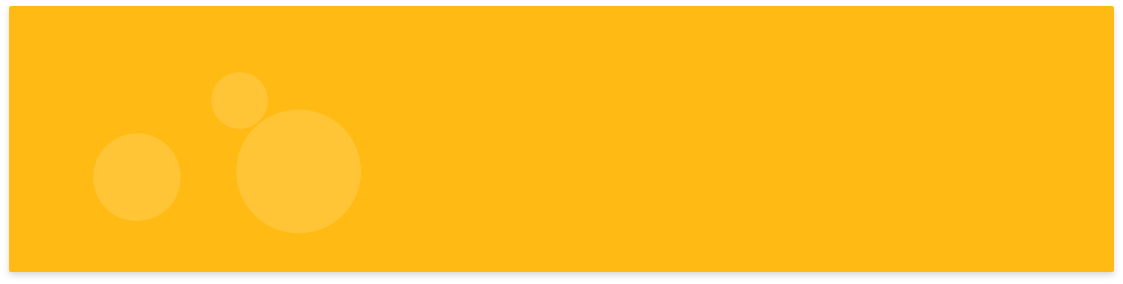
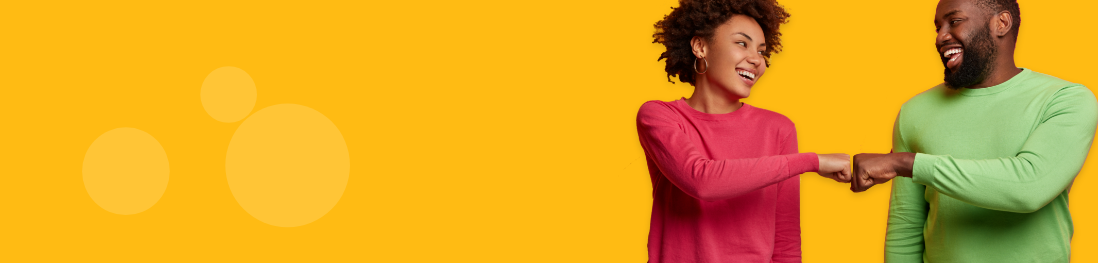
faqs page done

diff --git a/src/views/Faq.vue b/src/views/Faq.vue
@@ -1,13 +1,239 @@
 <template >
-    <div class="faqs">
-        
+  <div class="faqs">
+    <div class="row">
+      <div class="col-md-8">
+        <div class="faq-banner mb-5">
+          <h1 class="fw-9">Frequently asked questions</h1>
+          <div class="border"></div>
+          <p class="fw-7">
+            Sed quis magna nec augue suscipit venenatis. Pellentesque eu felis
+            nisl. Sed diam velit, venenatis sed molestie sit amet, consequat ac
+            diam. Vestibulum ante ipsum primis in faucibus orci luctus et
+            ultrices posuere cubilia curae; Donec lacinia ante eu feugiat
+            semper.
+          </p>
+        </div>
+        <div class="faq-section">
+          <h4 class="mb-4">Genral Enquiries</h4>
+
+          <div
+            class="collapse-container"
+            v-for="(faq, fIndex) in faqs"
+            :key="fIndex"
+          >
+            <div class="collapse-btn" v-b-toggle="'collapse' + fIndex">
+              {{ faq.heading }}
+              <b-icon icon="chevron-down"></b-icon>
+            </div>
+            <b-collapse :id="'collapse' + fIndex" accordion="my-accordion">
+              <p class="p-3 pt-0">
+                {{ faq.ans }}
+              </p>
+            </b-collapse>
+          </div>
+        </div>
+      </div>
+      <div class="col-md-4">
+        <HowCanWeHelp class="mb-4" />
+        <NagiaContact />
+      </div>
     </div>
+  </div>
 </template>
 <script>
+import HowCanWeHelp from "@/components/HowCanWeHelp";
+import NagiaContact from "@/components/NagiaContact";
 export default {
-    
-}
+  components: { HowCanWeHelp, NagiaContact },
+  data() {
+    return {
+      faqs: [
+        {
+          heading: "In conguet condimentum tincidunt?",
+          ans: "Lorem ipsum dolor sit amet, consetetur sadipscing elitr, sed diam nonumy eirmod tempor. Lorem ipsum dolor sit amet, ",
+        },
+        {
+          heading: "Aliquam condimentum leo massa?",
+          ans: "Lorem ipsum dolor sit amet, consetetur sadipscing elitr, sed dia sanctus est Lorem ipsum dolor sit amet. Lorem ipsum dolor sit amet, consetetur sadipscing elitr, sed diam nonumy eirmod tempor invidunt ut labore et dolore magna aliquyam erat, sed diam voluptua. At vero eos et accusam et justo duo dolores et ea rebum. Stet clita kasd gubergren, no sea takimata sanctus est Lorem ipsum dolor sit amet.Lorem ipsum dolor sit amet, consetetur sadipscing elitr, sed diam nonumy eirmod tempor invidunt ut labore et dolore magna.",
+        },
+        {
+          heading: "Quisque porta blandit purus at consectetur?",
+          ans: "Lorem ipsum dolor sit amet, consetetur sadipscing elitr, sed diam nonumy eirmod tempor. Lorem ipsum dolor sit amet, consetetur sadipscing elitr, sed diam nonumy eirmod tempor invidunt ut labore et dolore magna aliquyam erat, sed diam voluptua. At vero eos et accusam et justo duo dolores et ea rebum. Stet clita kasd gubergren, no sea takimata sanctus est Lorem ipsum dolor sit amet.Lorem ipsum dolor sit amet, consetetur sadipscing elitr, sed diam nonumy eirmod tempor invidunt ut labore et dolore magna.",
+        },
+        {
+          heading: "Vestibulum quis eros risus?",
+          ans: "Lorem ipsum dolor sit amet, consetetur takimata sanctus est Lorem ipsum dolor sit amet. Lorem ipsum dolor sit amet, consetetur sadipscing elitr, sed diam nonumy eirmod tempor invidunt ut labore et dolore magna aliquyam erat, sed diam voluptua. At vero eos et accusam et justo duo dolores et ea rebum. Stet clita kasd gubergren, no sea takimata sanctus est Lorem ipsum dolor sit amet.Lorem ipsum dolor sit amet, consetetur sadipscing elitr, sed diam nonumy eirmod tempor invidunt ut labore et dolore magna.",
+        },
+        {
+          heading: "In conguet condimentum tincidunt?",
+          ans: "Lorem ipsum dolor sit amet, consetetur sadipscing elitr, sed diam nonumy eirmod tempor invidunt ut labore et dolore magna aliquyam erat, sed diam voluptua. At vero eos et accusam et justo duo dolores et ea rebum. Stet clita kasd gubergren, no sea takimata sanctus est Lorem ipsum dolor sit amet. Lorem ipsum dolor sit amet, consetetur sadipscing elitr, sed diam nonumy eirmod tempor invidunt ut labore et dolore magna aliquyam erat, sed diam voluptua. At vero eos et accusam et justo duo dolores et ea rebum. Stet clita kasd gubergren, no sea takimata sanctus est Lorem ipsum dolor sit amet.Lorem ipsum dolor sit amet, consetetur sadipscing elitr, sed diam nonumy eirmod tempor invidunt ut labore et dolore magna.",
+        },
+        {
+          heading: "Aliquam condimentum leo massa?",
+          ans: "Lorem ipsum dolor sit amet, consetetur sadipscing elitr, sed diam nonumy eirmod tempor invidunt ut labore et dolore magna aliquyam erat, sed diam voluptua. At vero eos et accusam et justo duo dolores et ea rebum. Stet clita kasd gubergren, no sea takimata sanctus est Lorem ipsum dolor sit amet. Lorem ipsum dolor sit amet, consetetur sadipscing elitr, sed diam nonumy eirmod tempor invidunt ut labore et dolore magna aliquyam erat, sed diam voluptua. At vero eos et accusam et justo duo dolores et ea rebum. Stet clita kasd gubergren, no sea takimata sanctus est Lorem ipsum dolor sit amet.Lorem ipsum dolor sit amet, consetetur sadipscing elitr, sed diam nonumy eirmod tempor invidunt ut labore et dolore magna.",
+        },
+        {
+          heading: "Quisque porta blandit purus at consectetur?",
+          ans: "Lorem ipsum dolor sit amet, consetetur sadipscing elitr, sed diam nonumy eirmod tempor. Lorem ipsum dolor sit amet, consetetur sadipscing elitr, sed diam nonumy eirmod tempor invidunt ut labore et dolore magna aliquyam erat, sed diam voluptua. At vero eos et accusam et justo duo dolores et ea rebum. Stet clita kasd gubergren, no sea takimata sanctus est Lorem ipsum dolor sit amet.Lorem ipsum dolor sit amet, consetetur sadipscing elitr, sed diam nonumy eirmod tempor invidunt ut labore et dolore magna.",
+        },
+        {
+          heading: "Vestibulum quis eros risus?",
+          ans: "Lorem ipsum dolor sit amet, consetetur sadipscing elitr, sed diam nonumy eirmod tempor  duo dolores et ea rebum. Stet clita kasd gubergren, no sea takimata sanctus est Lorem ipsum dolor sit amet. Lorem ipsum dolor sit amet, consetetur sadipscing elitr, sed diam nonumy eirmod tempor invidunt ut labore et dolore magna aliquyam erat, sed diam voluptua. At vero eos et accusam et justo duo dolores et ea rebum. Stet clita kasd gubergren, no sea takimata sanctus est Lorem ipsum dolor sit amet.Lorem ipsum dolor sit amet, consetetur sadipscing elitr, sed diam nonumy eirmod tempor invidunt ut labore et dolore magna.",
+        },
+        {
+          heading: "Quisque porta blandit purus at consectetur?",
+          ans: "Lorem ipsum dolor sit amet, consetetur sadipscing elitr, sed diam nonumy eirmod tempor. Lorem ipsum dolor sit amet, consetetur sadipscing elitr, sed diam nonumy eirmod tempor invidunt ut labore et dolore magna aliquyam erat, sed diam voluptua. At vero eos et accusam et justo duo dolores et ea rebum. Stet clita kasd gubergren, no sea takimata sanctus est Lorem ipsum dolor sit amet.Lorem ipsum dolor sit amet, consetetur sadipscing elitr, sed diam nonumy eirmod tempor invidunt ut labore et dolore magna.",
+        },
+        {
+          heading: "Vestibulum quis eros risus?",
+          ans: "Lorem ipsum dolor sit amet, consetetur takimata sanctus est Lorem ipsum dolor sit amet. Lorem ipsum dolor sit amet, consetetur sadipscing elitr, sed diam nonumy eirmod tempor invidunt ut labore et dolore magna aliquyam erat, sed diam voluptua. At vero eos et accusam et justo duo dolores et ea rebum. Stet clita kasd gubergren, no sea takimata sanctus est Lorem ipsum dolor sit amet.Lorem ipsum dolor sit amet, consetetur sadipscing elitr, sed diam nonumy eirmod tempor invidunt ut labore et dolore magna.",
+        },
+        {
+          heading: "In conguet condimentum tincidunt?",
+          ans: "Lorem ipsum dolor sit amet, consetetur sadipscing elitr, sed diam nonumy eirmod tempor invidunt ut labore et dolore magna aliquyam erat, sed diam voluptua. At vero eos et accusam et justo duo dolores et ea rebum. Stet clita kasd gubergren, no sea takimata sanctus est Lorem ipsum dolor sit amet. Lorem ipsum dolor sit amet, consetetur sadipscing elitr, sed diam nonumy eirmod tempor invidunt ut labore et dolore magna aliquyam erat, sed diam voluptua. At vero eos et accusam et justo duo dolores et ea rebum. Stet clita kasd gubergren, no sea takimata sanctus est Lorem ipsum dolor sit amet.Lorem ipsum dolor sit amet, consetetur sadipscing elitr, sed diam nonumy eirmod tempor invidunt ut labore et dolore magna.",
+        },
+        {
+          heading: "Aliquam condimentum leo massa?",
+          ans: "Lorem ipsum dolor sit amet, consetetur sadipscing elitr, sed diam nonumy eirmod tempor invidunt ut labore et dolore magna aliquyam erat, sed diam voluptua. At vero eos et accusam et justo duo dolores et ea rebum. Stet clita kasd gubergren, no sea takimata sanctus est Lorem ipsum dolor sit amet. Lorem ipsum dolor sit amet, consetetur sadipscing elitr, sed diam nonumy eirmod tempor invidunt ut labore et dolore magna aliquyam erat, sed diam voluptua. At vero eos et accusam et justo duo dolores et ea rebum. Stet clita kasd gubergren, no sea takimata sanctus est Lorem ipsum dolor sit amet.Lorem ipsum dolor sit amet, consetetur sadipscing elitr, sed diam nonumy eirmod tempor invidunt ut labore et dolore magna.",
+        },
+        {
+          heading: "Quisque porta blandit purus at consectetur?",
+          ans: "Lorem ipsum dolor sit amet, consetetur sadipscing elitr, sed diam nonumy eirmod tempor. Lorem ipsum dolor sit amet, consetetur sadipscing elitr, sed diam nonumy eirmod tempor invidunt ut labore et dolore magna aliquyam erat, sed diam voluptua. At vero eos et accusam et justo duo dolores et ea rebum. Stet clita kasd gubergren, no sea takimata sanctus est Lorem ipsum dolor sit amet.Lorem ipsum dolor sit amet, consetetur sadipscing elitr, sed diam nonumy eirmod tempor invidunt ut labore et dolore magna.",
+        },
+        {
+          heading: "Vestibulum quis eros risus?",
+          ans: "Lorem ipsum dolor sit amet, consetetur sadipscing elitr, sed diam nonumy eirmod tempor  duo dolores et ea rebum. Stet clita kasd gubergren, no sea takimata sanctus est Lorem ipsum dolor sit amet. Lorem ipsum dolor sit amet, consetetur sadipscing elitr, sed diam nonumy eirmod tempor invidunt ut labore et dolore magna aliquyam erat, sed diam voluptua. At vero eos et accusam et justo duo dolores et ea rebum. Stet clita kasd gubergren, no sea takimata sanctus est Lorem ipsum dolor sit amet.Lorem ipsum dolor sit amet, consetetur sadipscing elitr, sed diam nonumy eirmod tempor invidunt ut labore et dolore magna.",
+        },
+        {
+          heading: "Quisque porta blandit purus at consectetur?",
+          ans: "Lorem ipsum dolor sit amet, consetetur sadipscing elitr, sed diam nonumy eirmod tempor. Lorem ipsum dolor sit amet, consetetur sadipscing elitr, sed diam nonumy eirmod tempor invidunt ut labore et dolore magna aliquyam erat, sed diam voluptua. At vero eos et accusam et justo duo dolores et ea rebum. Stet clita kasd gubergren, no sea takimata sanctus est Lorem ipsum dolor sit amet.Lorem ipsum dolor sit amet, consetetur sadipscing elitr, sed diam nonumy eirmod tempor invidunt ut labore et dolore magna.",
+        },
+        {
+          heading: "Vestibulum quis eros risus?",
+          ans: "Lorem ipsum dolor sit amet, consetetur takimata sanctus est Lorem ipsum dolor sit amet. Lorem ipsum dolor sit amet, consetetur sadipscing elitr, sed diam nonumy eirmod tempor invidunt ut labore et dolore magna aliquyam erat, sed diam voluptua. At vero eos et accusam et justo duo dolores et ea rebum. Stet clita kasd gubergren, no sea takimata sanctus est Lorem ipsum dolor sit amet.Lorem ipsum dolor sit amet, consetetur sadipscing elitr, sed diam nonumy eirmod tempor invidunt ut labore et dolore magna.",
+        },
+        {
+          heading: "In conguet condimentum tincidunt?",
+          ans: "Lorem ipsum dolor sit amet, consetetur sadipscing elitr, sed diam nonumy eirmod tempor invidunt ut labore et dolore magna aliquyam erat, sed diam voluptua. At vero eos et accusam et justo duo dolores et ea rebum. Stet clita kasd gubergren, no sea takimata sanctus est Lorem ipsum dolor sit amet. Lorem ipsum dolor sit amet, consetetur sadipscing elitr, sed diam nonumy eirmod tempor invidunt ut labore et dolore magna aliquyam erat, sed diam voluptua. At vero eos et accusam et justo duo dolores et ea rebum. Stet clita kasd gubergren, no sea takimata sanctus est Lorem ipsum dolor sit amet.Lorem ipsum dolor sit amet, consetetur sadipscing elitr, sed diam nonumy eirmod tempor invidunt ut labore et dolore magna.",
+        },
+        {
+          heading: "Aliquam condimentum leo massa?",
+          ans: "Lorem ipsum dolor sit amet, consetetur sadipscing elitr, sed diam nonumy eirmod tempor invidunt ut labore et dolore magna aliquyam erat, sed diam voluptua. At vero eos et accusam et justo duo dolores et ea rebum. Stet clita kasd gubergren, no sea takimata sanctus est Lorem ipsum dolor sit amet. Lorem ipsum dolor sit amet, consetetur sadipscing elitr, sed diam nonumy eirmod tempor invidunt ut labore et dolore magna aliquyam erat, sed diam voluptua. At vero eos et accusam et justo duo dolores et ea rebum. Stet clita kasd gubergren, no sea takimata sanctus est Lorem ipsum dolor sit amet.Lorem ipsum dolor sit amet, consetetur sadipscing elitr, sed diam nonumy eirmod tempor invidunt ut labore et dolore magna.",
+        },
+        {
+          heading: "Quisque porta blandit purus at consectetur?",
+          ans: "Lorem ipsum dolor sit amet, consetetur sadipscing elitr, sed diam nonumy eirmod tempor. Lorem ipsum dolor sit amet, consetetur sadipscing elitr, sed diam nonumy eirmod tempor invidunt ut labore et dolore magna aliquyam erat, sed diam voluptua. At vero eos et accusam et justo duo dolores et ea rebum. Stet clita kasd gubergren, no sea takimata sanctus est Lorem ipsum dolor sit amet.Lorem ipsum dolor sit amet, consetetur sadipscing elitr, sed diam nonumy eirmod tempor invidunt ut labore et dolore magna.",
+        },
+        {
+          heading: "Vestibulum quis eros risus?",
+          ans: "Lorem ipsum dolor sit amet, consetetur sadipscing elitr, sed diam nonumy eirmod tempor  duo dolores et ea rebum. Stet clita kasd gubergren, no sea takimata sanctus est Lorem ipsum dolor sit amet. Lorem ipsum dolor sit amet, consetetur sadipscing elitr, sed diam nonumy eirmod tempor invidunt ut labore et dolore magna aliquyam erat, sed diam voluptua. At vero eos et accusam et justo duo dolores et ea rebum. Stet clita kasd gubergren, no sea takimata sanctus est Lorem ipsum dolor sit amet.Lorem ipsum dolor sit amet, consetetur sadipscing elitr, sed diam nonumy eirmod tempor invidunt ut labore et dolore magna.",
+        },
+        {
+          heading: "Quisque porta blandit purus at consectetur?",
+          ans: "Lorem ipsum dolor sit amet, consetetur sadipscing elitr, sed diam nonumy eirmod tempor. Lorem ipsum dolor sit amet, consetetur sadipscing elitr, sed diam nonumy eirmod tempor invidunt ut labore et dolore magna aliquyam erat, sed diam voluptua. At vero eos et accusam et justo duo dolores et ea rebum. Stet clita kasd gubergren, no sea takimata sanctus est Lorem ipsum dolor sit amet.Lorem ipsum dolor sit amet, consetetur sadipscing elitr, sed diam nonumy eirmod tempor invidunt ut labore et dolore magna.",
+        },
+        {
+          heading: "Vestibulum quis eros risus?",
+          ans: "Lorem ipsum dolor sit amet, consetetur takimata sanctus est Lorem ipsum dolor sit amet. Lorem ipsum dolor sit amet, consetetur sadipscing elitr, sed diam nonumy eirmod tempor invidunt ut labore et dolore magna aliquyam erat, sed diam voluptua. At vero eos et accusam et justo duo dolores et ea rebum. Stet clita kasd gubergren, no sea takimata sanctus est Lorem ipsum dolor sit amet.Lorem ipsum dolor sit amet, consetetur sadipscing elitr, sed diam nonumy eirmod tempor invidunt ut labore et dolore magna.",
+        },
+        {
+          heading: "In conguet condimentum tincidunt?",
+          ans: "Lorem ipsum dolor sit amet, consetetur sadipscing elitr, sed diam nonumy eirmod tempor invidunt ut labore et dolore magna aliquyam erat, sed diam voluptua. At vero eos et accusam et justo duo dolores et ea rebum. Stet clita kasd gubergren, no sea takimata sanctus est Lorem ipsum dolor sit amet. Lorem ipsum dolor sit amet, consetetur sadipscing elitr, sed diam nonumy eirmod tempor invidunt ut labore et dolore magna aliquyam erat, sed diam voluptua. At vero eos et accusam et justo duo dolores et ea rebum. Stet clita kasd gubergren, no sea takimata sanctus est Lorem ipsum dolor sit amet.Lorem ipsum dolor sit amet, consetetur sadipscing elitr, sed diam nonumy eirmod tempor invidunt ut labore et dolore magna.",
+        },
+        {
+          heading: "Aliquam condimentum leo massa?",
+          ans: "Lorem ipsum dolor sit amet, consetetur sadipscing elitr, sed diam nonumy eirmod tempor invidunt ut labore et dolore magna aliquyam erat, sed diam voluptua. At vero eos et accusam et justo duo dolores et ea rebum. Stet clita kasd gubergren, no sea takimata sanctus est Lorem ipsum dolor sit amet. Lorem ipsum dolor sit amet, consetetur sadipscing elitr, sed diam nonumy eirmod tempor invidunt ut labore et dolore magna aliquyam erat, sed diam voluptua. At vero eos et accusam et justo duo dolores et ea rebum. Stet clita kasd gubergren, no sea takimata sanctus est Lorem ipsum dolor sit amet.Lorem ipsum dolor sit amet, consetetur sadipscing elitr, sed diam nonumy eirmod tempor invidunt ut labore et dolore magna.",
+        },
+        {
+          heading: "Quisque porta blandit purus at consectetur?",
+          ans: "Lorem ipsum dolor sit amet, consetetur sadipscing elitr, sed diam nonumy eirmod tempor. Lorem ipsum dolor sit amet, consetetur sadipscing elitr, sed diam nonumy eirmod tempor invidunt ut labore et dolore magna aliquyam erat, sed diam voluptua. At vero eos et accusam et justo duo dolores et ea rebum. Stet clita kasd gubergren, no sea takimata sanctus est Lorem ipsum dolor sit amet.Lorem ipsum dolor sit amet, consetetur sadipscing elitr, sed diam nonumy eirmod tempor invidunt ut labore et dolore magna.",
+        },
+        {
+          heading: "Vestibulum quis eros risus?",
+          ans: "Lorem ipsum dolor sit amet, consetetur sadipscing elitr, sed diam nonumy eirmod tempor  duo dolores et ea rebum. Stet clita kasd gubergren, no sea takimata sanctus est Lorem ipsum dolor sit amet. Lorem ipsum dolor sit amet, consetetur sadipscing elitr, sed diam nonumy eirmod tempor invidunt ut labore et dolore magna aliquyam erat, sed diam voluptua. At vero eos et accusam et justo duo dolores et ea rebum. Stet clita kasd gubergren, no sea takimata sanctus est Lorem ipsum dolor sit amet.Lorem ipsum dolor sit amet, consetetur sadipscing elitr, sed diam nonumy eirmod tempor invidunt ut labore et dolore magna.",
+        },
+      ],
+    };
+  },
+};
 </script>
 <style lang="scss">
-    
+.faqs {
+  .faq-banner {
+    background: url("../assets/images/faq-bg.png");
+    background-repeat: no-repeat;
+    background-size: cover;
+    background-position-x: right;
+    padding: 30px;
+    min-height: 260px;
+    box-shadow: 0 3px 10px rgb(0 0 0 / 20%);
+    display: flex;
+    flex-direction: column;
+    justify-content: center;
+    h1 {
+      color: #fff;
+    }
+    .border {
+      width: 100px;
+      border: 2px solid #fff !important;
+      margin-bottom: 12px;
+    }
+    p {
+      color: var(--blue);
+      max-width: 600px;
+    }
+  }
+
+  .faq-section {
+    background: var(--blue);
+    color: #fff;
+    padding: 30px;
+
+    .collapse-container {
+      margin-bottom: 10px;
+      .collapse-btn.collapsed {
+        background: #fff;
+        color: #000;
+        padding: 10px;
+        display: flex;
+        align-items: center;
+        justify-content: space-between;
+        text-transform: capitalize;
+        cursor: pointer;
+        transition: 0.5s all ease 0.3s;
+        .bi-chevron-down {
+          transition: 0.3s all ease;
+        }
+      }
+      .collapse-btn.not-collapsed {
+        background: var(--yellow);
+        padding: 10px;
+        color: #000;
+        display: flex;
+        align-items: center;
+        justify-content: space-between;
+        text-transform: capitalize;
+        cursor: pointer;
+        transition: 0.3s all ease;
+        .bi-chevron-down {
+          transform: rotate(180deg);
+          transition: 0.3s all ease;
+        }
+      }
+
+      .collapse {
+        background: var(--yellow);
+        color: #000 !important;
+        display: block !important;
+        overflow: hidden;
+        max-height: 0px;
+        transition: all 0.3s ease-out;
+        &.show {
+          max-height: 5000px;
+          transition: all 0.3s ease-out, color 0s, background-color 0s;
+        }
+      }
+    }
+  }
+}
 </style>

diff --git a/src/components/NagiaContact.vue b/src/components/NagiaContact.vue
@@ -1,0 +1,52 @@
+<template >
+  <div class="nagia-contact box-shadow">
+    <h3 class="bg-yellow c-blue text-center fw-6 p-3 m-0">NAGIA Contact</h3>
+    <div class="bg-white p-2 pt-4 pb-4">
+      <div class="row align-items-center">
+        <div class="col-md-3">
+          <b-icon icon="geo-alt" class="svg-icon"></b-icon>
+        </div>
+        <div class="col-md-9 p-3">
+          <h5 class="c-blue fw-9">Visit Us</h5>
+          <p class="fw-7">Accra, Greater Accra, Ghana</p>
+        </div>
+      </div>
+      <div class="row align-items-center">
+        <div class="col-md-3">
+          <b-icon icon="at" class="svg-icon"></b-icon>
+        </div>
+        <div class="col-md-9 p-3">
+          <h5 class="c-blue fw-9">Email</h5>
+          <p class="fw-7">info@nagia.com.gh</p>
+          <p class="fw-7">learn@nagia.com.gh</p>
+          <p class="fw-7">support@nagia.com.gh</p>
+        </div>
+      </div>
+      <div class="row align-items-center">
+        <div class="col-md-3">
+          <b-icon icon="at" class="svg-icon"></b-icon>
+        </div>
+        <div class="col-md-9  p-3">
+          <h5 class="c-blue fw-9">Call Us</h5>
+          <p class="fw-7">0242745438 / 0209198138</p>
+        </div>
+      </div>
+    </div>
+  </div>
+</template>
+<script>
+export default {};
+</script>
+<style lang="scss">
+.nagia-contact {
+  .svg-icon {
+    color: var(--yellow);
+    height: 60px;
+    width: 60px;
+    background: #fff;
+    border-radius: 50%;
+    padding: 10px;
+    box-shadow: 0 3px 10px rgb(0 0 0 / 20%);
+  }
+}
+</style>

diff --git a/src/components/main/TheHeader.vue b/src/components/main/TheHeader.vue
@@ -2,12 +2,16 @@
   <div class="box-shadow dashboard-header">
     <div class="row dashboard-row">
       <div class="col-md-2">
-        <b-icon
-          icon="border-width"
+        <svg
           class="ms-4 pointer"
+          style="width: 30px; height: 30px"
           @click="$store.commit('set', ['sidebarMinimize', !minimize])"
-        ></b-icon>
-        <b-icon icon="fullscreen" class="ms-4 pointer"></b-icon>
+        >
+          <use xlink:href="@/assets/svg/minimize.svg#minimize"></use>
+        </svg>
+        <svg class="ms-4 pointer" style="width: 30px; height: 30px">
+          <use xlink:href="@/assets/svg/maximize.svg#max"></use>
+        </svg>
       </div>
       <div class="col-md-6">
         <div class="dash-serach">

diff --git a/src/components/HowCanWeHelp.vue b/src/components/HowCanWeHelp.vue
@@ -1,0 +1,25 @@
+<template >
+  <div class="how-can-we-help box-shadow bg-white">
+    <div class="img-wrapper">
+      <img src="@/assets/logo.png" width="140px" />
+    </div>
+    <div class="content mt-3 text-center">
+      <h2 class="c-blue fw-9">How can we help you?</h2>
+      <h5 class="mt-3 c-blue fw-6">
+        Choose any option from <br />
+        accordion pannel
+      </h5>
+    </div>
+  </div>
+</template>
+<script>
+export default {};
+</script>
+<style lang="scss">
+.how-can-we-help {
+  display: flex;
+  flex-direction: column;
+  align-items: center;
+  padding: 20px;
+}
+</style>

diff --git a/src/views/events/Events.vue b/src/views/events/Events.vue
@@ -133,7 +133,7 @@ export default {
       color: var(--yellow);
     }
   }
-  @media only screen and (max-width: 1336px){
+  @media only screen and (max-width: 1360px){
     .Calender{
       .b-calendar .b-calendar-inner{
               width: 270px !important;
